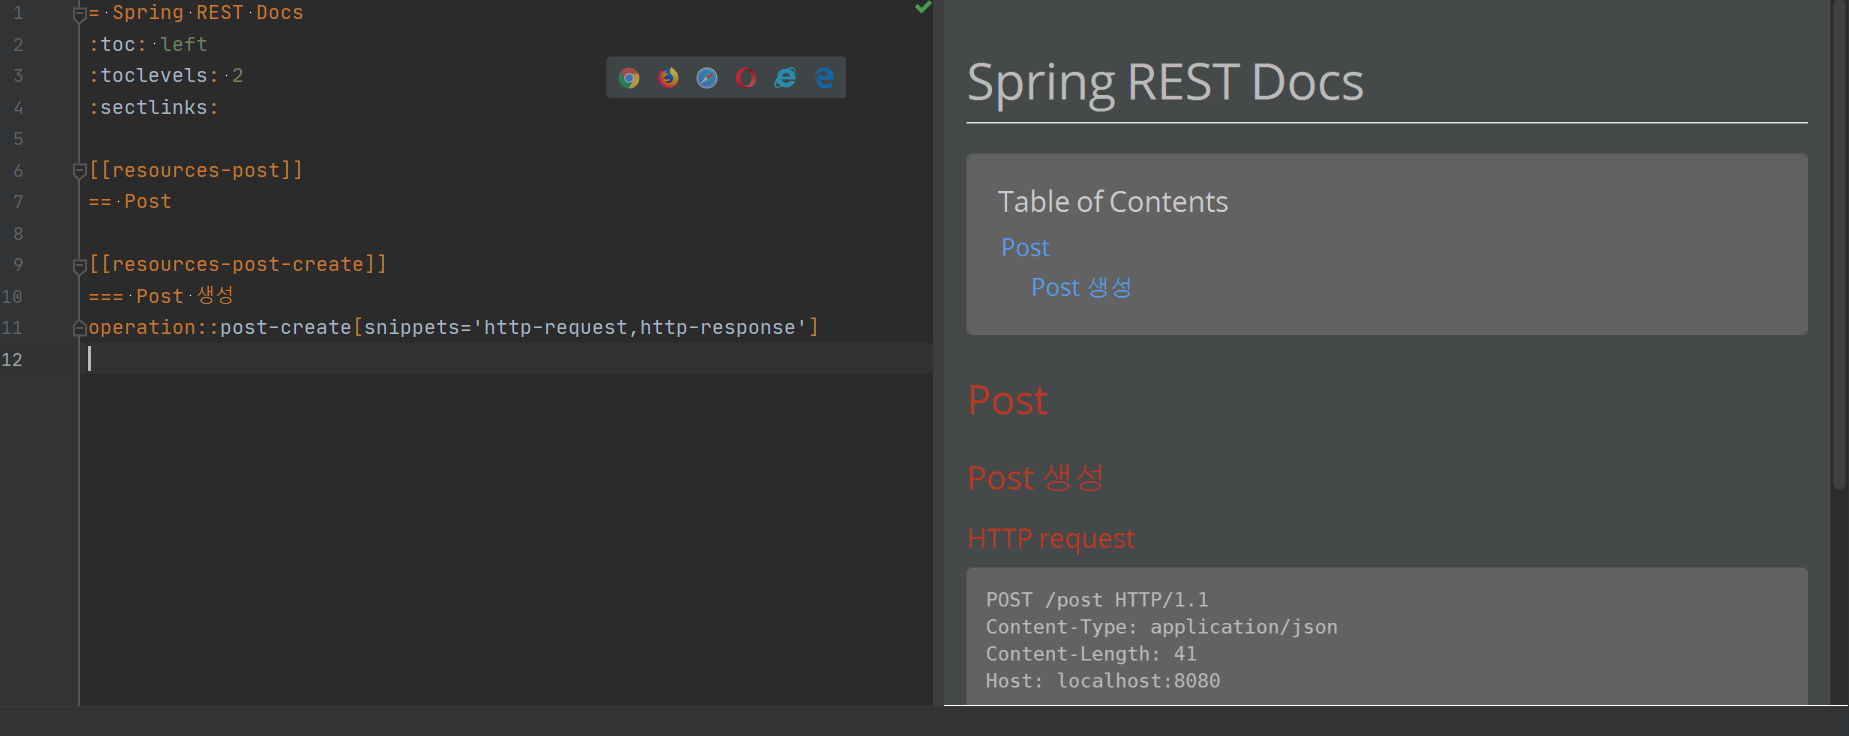
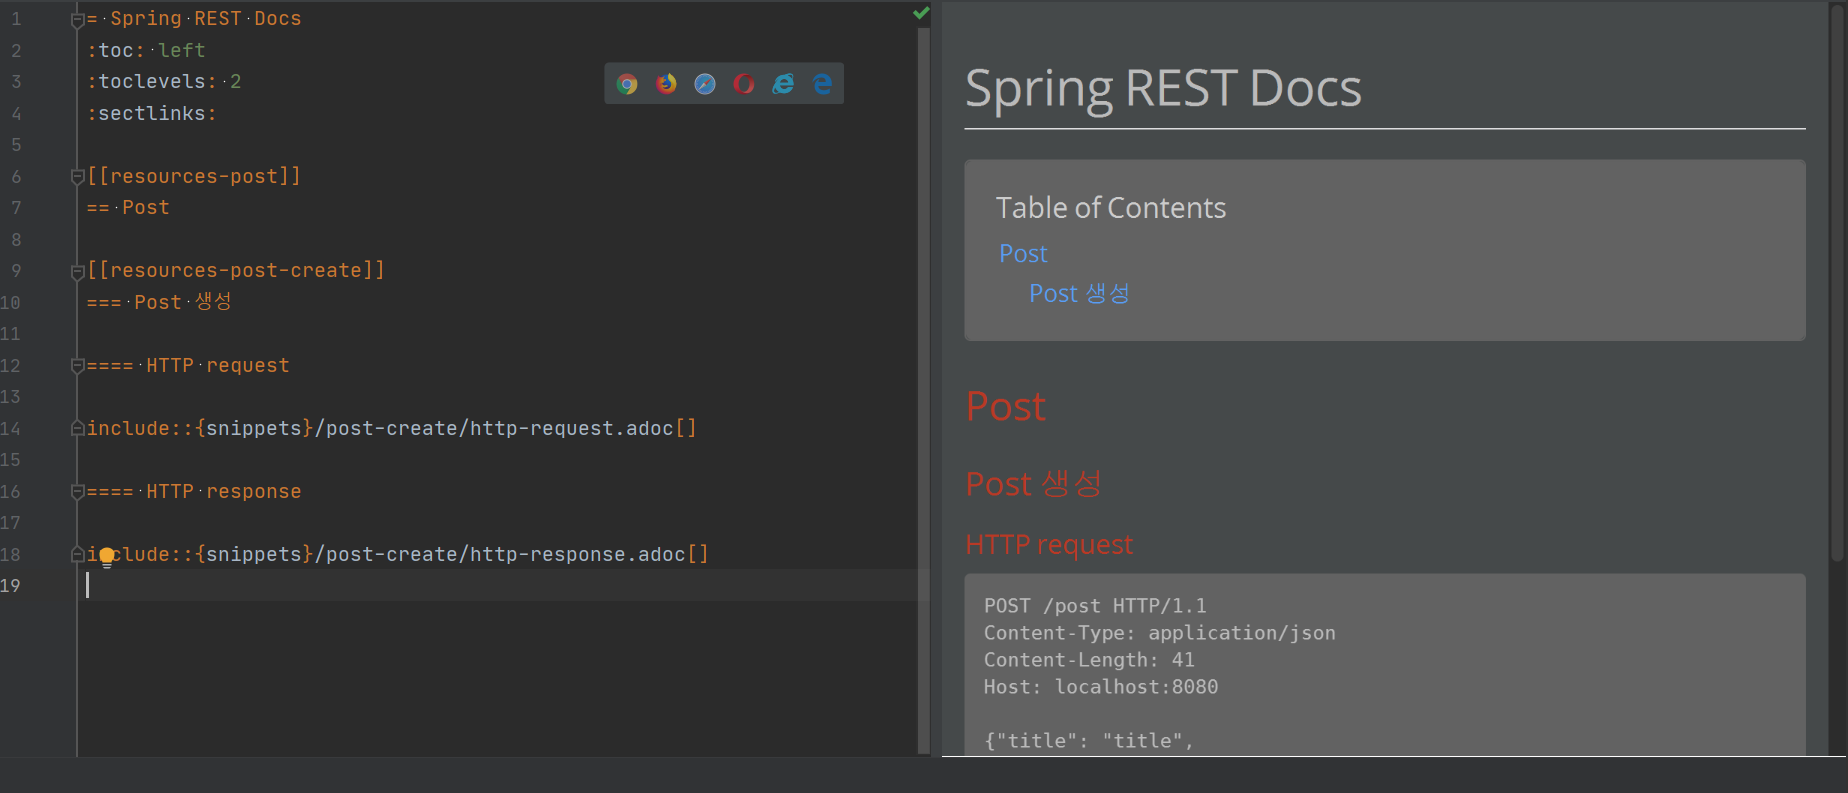
refactor: 내용 수정

diff --git a/_posts/2020-08-18-spring-rest-docs.md b/_posts/2020-08-18-spring-rest-docs.md
@@ -6,16 +6,16 @@ comment: "true"
 tags: ["spring"]
 ---
 
-**"API 문서를 자동화한다."**라고 하면 `Spring REST Docs`와 `Swagger`를 많이 사용할 것이다. 이번 글에서는 `Spring REST Docs`다뤄볼 것이다. 그럼 `Swagger`대신 `Spring REST Docs`를 왜 사용하고, 어떻게 사용하는 지 알아 볼 것이다.
+**"API 문서를 자동화한다."**라고 하면 `Spring REST Docs`와 `Swagger`를 많이 사용할 것이다. 이번 글에서는 `Spring REST Docs`를 다뤄볼 것이다. `Swagger`대신 `Spring REST Docs`를 왜 사용하고, 어떻게 사용하는지 알아보자.
 
 ## 왜 사용할까?
 
-Spring Rest Docs의 대표적인 장점은 다음과 같다.
+Spring REST Docs의 대표적인 장점은 다음과 같다.
 
-- 테스트가 성공해야 문서 작성됨
-- 실제 코드에 추가되는 코드가 없음
+- **테스트가 성공**해야 문서 작성됨
+- 실제 코드에 **추가되는 코드가 없음**
 
-말 그대로 테스트가 성공하지 못하면 문서를 만들 수 없고, Swagger같이 어노테이션을 붙일 필요가 없기에 실제코드에 영향을 주지 않는다.
+말 그대로 테스트가 성공하지 못하면 문서를 만들 수 없고, Swagger처럼 어노테이션을 붙일 필요가 없기에 실제 코드에 영향을 주지 않는다.
 
 ~~단점으로는 적용하기 어렵다...~~
 
@@ -30,7 +30,7 @@ Spring Rest Docs의 대표적인 장점은 다음과 같다.
 
 ### build.gradle 설정
 
-먼저 Spring Rest Docs를 사용하기 위해 build.gradle 설정을 **추가**한다.
+먼저 Spring REST Docs를 사용하기 위해 build.gradle에 아래 설정을 **추가한다.**
 
 ```
 plugins { 
@@ -63,7 +63,7 @@ bootJar {
 }
 ```
 
-여기서
+bootJar 안에 있는 
 
 ```
 from ("${asciidoctor.outputDir}/html5") { 
@@ -71,11 +71,13 @@ from ("${asciidoctor.outputDir}/html5") {
 }
 ```
 
-해당 설정은 `build/asciidoc/html5/`에 `html`파일의 문서가 만들어 지면 `src/main/resources/static/docs`로 복사를 해주겠다는 의미이다.
+해당 설정은 `build/asciidoc/html5/`에 `html`파일의 문서가 만들어 지면 `src/main/resources/static/docs`로 복사한다는 의미이다.
+
+**잠깐!!!**
 
 (위 같이 설정을 해도 복사가 되지 않았다...😭😭)
 
-나와 같이 설정을 해도 **복사가 안되는 분**은 다음과 같이 설정하자!!
+나와 같이 설정을 해도 **복사가 안 되는 분**은 다음과 같이 설정하자!!
 
 ```
 bootJar {
@@ -174,9 +176,7 @@ public class PostControllerTest {
 }
 ```
 
-이제 테스트 코드를 작성해보자.
-
-우선 CREATE부터 설명하겠다.
+setting이 끝나면 create 테스트 코드를 작성하고, 간단히 설명하겠다. 
 
 ```java
 @Test
@@ -199,7 +199,7 @@ void create() throws Exception {
 
 1. 요청 방식(get, post 등)은 post를 선택하고  `/post`를 호출한다.
 
-2. CREATE는 RequestBody를 받기 때문에 content에 해당 들어오는 값을 넣어 준다.
+2. create는 RequestBody를 받기 때문에 실제 값과 동일한 형식으로 content에 값을 넣는다.
 
    ```json
    {
@@ -212,15 +212,15 @@ void create() throws Exception {
 
 4. 정상적으로 동작시 `isCreated`상태 코드를 보낸다.
 
-5. documentation의 이름
+5. documentation의 이름을 적어준다.
 
-6. create의 requestFields로 무엇을 받는지 설정해준다.
+6. create의 requestFields을 받는다.
 
-7. RequestBody 정보를 보면 CREATE는 `title`과 `content`를 받는다. `fieldWithPath`는 key값을, `description`는 `fieldWithPath`에 내용에 대한 설명을 쓴다.
+7. RequestBody 정보를 보면 CREATE는 `title`과 `content`를 받는다. `fieldWithPath`는 key값을, `description`는 `fieldWithPath`에 대한 설명을 쓴다.
 
 8. Test를 할 때 만약 `content`의 값이 없다면 테스트는 실패할 것이다. 따라서 `content`와 같이 `null`일 수 있다면 `optional()`을 붙여주면 된다.
 
-다음으로 READ이다. (중복되는 설명은 제외하겠습니다.😂😂)
+다음으로 findAll과 findById이다. (중복되는 설명은 생략하겠습니다.😂😂)
 
 ```java
 @Test
@@ -266,13 +266,13 @@ void findById() throws Exception {
 ```
 
 1. findAll는 application/json 형식으로 응답을 보낸다.
-2. responseFields로 무엇을 보내는지 설정해준다.
-3. 설명은 create의 7번과 같고, List형식은 `[].id`과 같이 앞에 `[]`를 해야한다.
-4. PathVariable로 받는 값(`postResponse.getId()`)을 넣어준다.
-5. findById는 PathVariable를 받는다. PathVariable로 무엇을 받는 지 설정해준다.
+2. findAll는 responseFields를 준다.
+3. 설명은 create의 7번과 같고, List형식은 `[].id`처럼 앞에 `[]`를 해야한다.
+4. PathVariable로 받는 값(ex. `postResponse.getId()`)을 넣어준다.
+5. findById는 PathVariable를 받는다.
 6. pathParameters는 parameterWithName로 PathVariable의 Name(postId)을 쓴다.
 
-이제 이전 설명들을 토대로 UPDATE와 DELETE를 작성할 수 있다.
+이제 이전 설명을 바탕으로 update와 delete를 작성할 수 있다.
 
 ```java
 @Test
@@ -306,13 +306,15 @@ void remove() throws Exception {
 
 ### 문서화
 
-build를 하면 다음과 같이 생길 것이다.
+build를 하면 `build/generated-snippets`에 다음과 같이 생길 것이다.
 
 ![snippets 생성 파일](../images/2020-08-18-spring-rest-docs1.png)
 
-`src/main/docs/asciidoc`같이 디렉토리를 만들고 `*.adoc`파일을 만들어 준다. (ex. api.adoc)
+`src/main/docs/asciidoc`와 같이 디렉토리를 만들고 `*.adoc`파일을 만들어 준다. (ex. api-docs.adoc)
 
-[Asciidoctor User Manual](https://asciidoctor.org/docs/user-manual/#introduction-to-asciidoctor)를 보며 작성한 간단한 코드이다.
+`*.adoc`에 코드를 작성한다. ([Asciidoctor User Manual](https://asciidoctor.org/docs/user-manual/#introduction-to-asciidoctor) 참고)
+
+>  Asciidoctor는 일반 텍스트를 처리하고 필요에 맞게 스타일 및 레이아웃 된 HTML을 생성합니다.
 
  ```
 = Spring REST Docs
@@ -325,22 +327,69 @@ build를 하면 다음과 같이 생길 것이다.
 
 [[resources-post-create]]
 === Post 생성
-operation::post-create[snippets='http-request,http-response']
+
+==== HTTP request
+
+include::{snippets}/post-create/http-request.adoc[]
+
+==== HTTP response
+
+include::{snippets}/post-create/http-response.adoc[]
  ```
 
-IntelliJ를 사용한다면 plugins에서 AsciiDoc 제공한다. (사용하는 것을 추천한다.)
+IntelliJ를 사용한다면 plugins에서 AsciiDoc를 설치하면 미리보기를 지원받는다. (사용하는 것을 추천한다.👍👍)
 
 ![plugins의 AsciiDoc 사용](../images/2020-08-18-spring-rest-docs2.png)
 
-build를 하면 `src/main/resources/static/docs`에 `html` 파일이 생긴다.
+코드를 작성하면 다시 한번 build한다. 그러면 `build/asciidoc/html5`와 `src/main/resources/static/docs`에 `html` 파일이 생길 것이다.
 
-서버를 실행 시키고 `http://localhost:8080/docs/api-docs.html`로 이동하면 문서가 잘 나오는 것을 확인할 수 있다.
+마지막으로 서버를 실행 시키고 `http://localhost:8080/docs/api-docs.html`로 이동하면 문서가 잘 나오는 것을 확인할 수 있다.
 
 ![브라우저에서 본 Rest docs](../images/2020-08-18-spring-rest-docs3.png)
 
+**잠깐!!!**
+
+만약 아래와 같이 나온다면
+
+![브라우저에서 본 Rest docs 오류](../images/2020-08-18-spring-rest-docs4.png)
+
+`src/main/docs/asciidoc`있는 `*.adoc` 파일에 아래 코드를 최상단에 넣어주자.
+
+```
+ifndef::snippets[]
+:snippets: ../../../build/generated-snippets
+endif::[]
+```
+
+적용하면 다음과 같다.
+
+```
+ifndef::snippets[]
+:snippets: ../../../build/generated-snippets
+endif::[]
+= Spring REST Docs
+:toc: left
+:toclevels: 2
+:sectlinks:
+
+[[resources-post]]
+== Post
+
+[[resources-post-create]]
+=== Post 생성
+
+==== HTTP request
+
+include::{snippets}/post-create/http-request.adoc[]
+
+==== HTTP response
+
+include::{snippets}/post-create/http-response.adoc[]
+```
+
 ## 참고자료
 
-[Spring REST Docs](https://docs.spring.io/spring-restdocs/docs/current-SNAPSHOT/reference/html5/)
+[Spring REST Docs](https://docs.spring.io/spring-restdocs/docs/2.0.4.RELEASE/reference/html5/)
 
 [Gradle Multi Module에서 Spring Rest Docs 사용하기](https://jojoldu.tistory.com/294)
 
